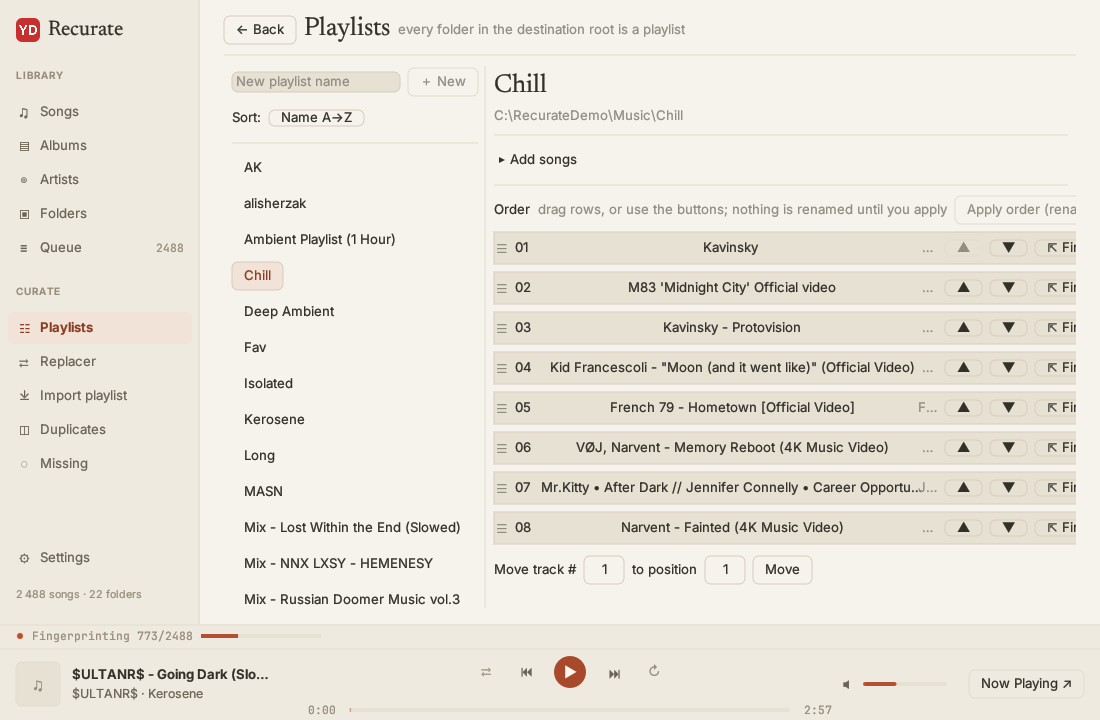
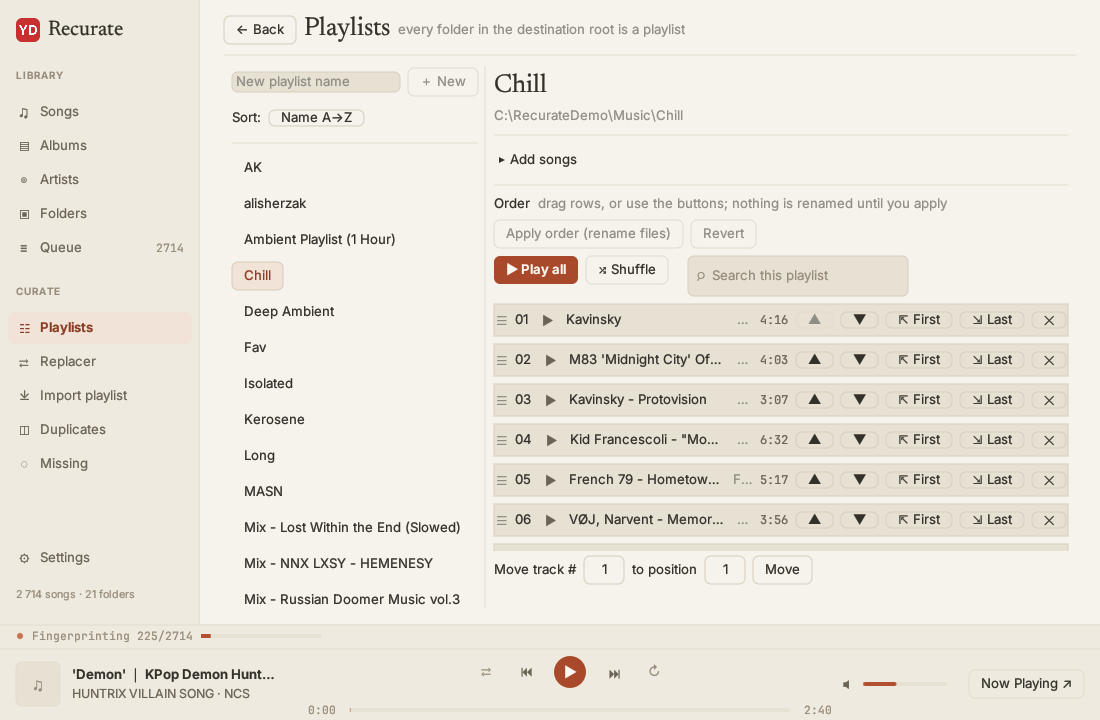
feat(playlists): play controls on playlist rows; fix clipped buttons
Add Play all and Shuffle above the order list, a play button on every
row (plays the playlist from that song, or pauses / resumes the song
already loaded), double-click on a title to play, a tint and accent
title on the playing song, and the duration next to the artist.
Playback follows the order shown, including unapplied reorder edits.

Fix the row buttons being cut off: the "Order ... Apply order ...
Revert" row was wider than the panel, egui widened the panel to fit it,
and every row below was laid out past the visible edge, hiding the
delete and Last buttons. Header rows now wrap. Titles are left-aligned.

Regenerate the Playlists screenshot with the capture tool.

Verified: 80 tests pass, no new clippy warnings, Playlists screen
captured in the real window with every row control visible.

diff --git a/player/src/ui/screens/playlists.rs b/player/src/ui/screens/playlists.rs
@@ -543,7 +543,10 @@ fn draw_reorder(ui: &mut egui::Ui, app: &mut App, folder: &PathBuf) {
     let batch_here =
         !app.playlists.queued_ids.is_empty() && app.playlists.batch_folder.as_ref() == Some(folder);
 
-    ui.horizontal(|ui| {
+    // Wrapped, not `horizontal`: a row wider than the panel makes egui widen
+    // the whole panel, which pushed every song row's buttons (✕, Last,
+    // First) past the visible edge.
+    ui.horizontal_wrapped(|ui| {
         ui.label(egui::RichText::new("Order").strong());
         ui.label(
             egui::RichText::new("drag rows, or use the buttons; nothing is renamed until you apply")
@@ -565,11 +568,31 @@ fn draw_reorder(ui: &mut egui::Ui, app: &mut App, folder: &PathBuf) {
         }
     });
 
+    let mut play_from: Option<usize> = None;
+    let mut play_shuffled = false;
+    let mut toggle_pause = false;
+    let state = app.playback.state_snapshot();
+    let current_id = state.current_song.as_ref().map(|s| s.id);
+    let is_playing = state.is_playing;
+
     // Search within this playlist. While a filter is active the rows keep
     // their real position numbers but drag-and-drop is ignored: dropping
     // between two visible rows says nothing about the hidden ones.
-    ui.horizontal(|ui| {
-        crate::ui::widgets::search_input(ui, &mut app.playlists.filter, "Search this playlist", 260.0);
+    ui.horizontal_wrapped(|ui| {
+        if crate::ui::widgets::primary_button_sm(ui, true, "▶ Play all")
+            .on_hover_text("Play this playlist from the first song, in the order shown")
+            .clicked()
+        {
+            play_from = Some(0);
+        }
+        if crate::ui::widgets::secondary_button_sm(ui, true, "⤮ Shuffle")
+            .on_hover_text("Play this playlist in a random order")
+            .clicked()
+        {
+            play_shuffled = true;
+        }
+        ui.add_space(crate::ui::theme::SPACE_3);
+        crate::ui::widgets::search_input(ui, &mut app.playlists.filter, "Search this playlist", 220.0);
         if !app.playlists.filter.is_empty() {
             let shown = app
                 .playlists
@@ -617,15 +640,17 @@ fn draw_reorder(ui: &mut egui::Ui, app: &mut App, folder: &PathBuf) {
         }
     }
     let highlight = app.playlists.highlight;
-    let accent_soft = crate::ui::widgets::p(ui).accent_soft;
+    let pal = crate::ui::widgets::p(ui);
+    let accent_soft = pal.accent_soft;
     scroll.show_rows(ui, row_h, visible.len(), |ui, range| {
             for k in range {
                 let i = visible[k];
                 let song = &rows[i];
                 let (song_id, title, artist) = (&song.id, &song.title, &song.artist);
                 let id = egui::Id::new(("pl_row", folder, *song_id));
+                let is_current = current_id == Some(*song_id);
                 let mut frame = egui::Frame::none().inner_margin(2.0);
-                if highlight == Some(*song_id) {
+                if highlight == Some(*song_id) || is_current {
                     frame = frame.fill(accent_soft).rounding(crate::ui::theme::RADIUS_SM);
                 }
                 let (_, dropped) = ui.dnd_drop_zone::<usize, ()>(frame, |ui| {
@@ -634,11 +659,50 @@ fn draw_reorder(ui: &mut egui::Ui, app: &mut App, folder: &PathBuf) {
                             ui.label(egui::RichText::new("☰").weak());
                             ui.label(format!("{:02}", i + 1));
                         });
-                        let title_w = (ui.available_width() - 290.0).max(40.0);
-                        let r = ui.add_sized(
-                            [title_w, row_h],
-                            egui::Label::new(title).truncate().sense(egui::Sense::click()),
-                        );
+                        // ▶ plays the playlist from this song; on the song
+                        // that is already loaded it toggles play / pause.
+                        let (glyph, hover) = if is_current && is_playing {
+                            ("⏸", "Pause")
+                        } else if is_current {
+                            ("▶", "Resume")
+                        } else {
+                            ("▶", "Play from here")
+                        };
+                        let glyph_c = if is_current { pal.accent } else { pal.ink_2 };
+                        if crate::ui::widgets::icon_button(ui, glyph, 22.0, glyph_c)
+                            .on_hover_text(hover)
+                            .clicked()
+                        {
+                            if is_current {
+                                toggle_pause = true;
+                            } else {
+                                play_from = Some(i);
+                            }
+                        }
+                        let title_w = (ui.available_width() - 340.0).max(40.0);
+                        let title_text = if is_current {
+                            egui::RichText::new(title).color(pal.accent_soft_ink).strong()
+                        } else {
+                            egui::RichText::new(title)
+                        };
+                        let r = ui
+                            .allocate_ui_with_layout(
+                                egui::vec2(title_w, row_h),
+                                egui::Layout::left_to_right(egui::Align::Center),
+                                |ui| {
+                                    ui.set_min_width(title_w);
+                                    ui.add(
+                                        egui::Label::new(title_text)
+                                            .truncate()
+                                            .sense(egui::Sense::click()),
+                                    )
+                                },
+                            )
+                            .inner
+                            .on_hover_text("Double-click to play, right-click for more");
+                        if r.double_clicked() {
+                            play_from = Some(i);
+                        }
                         if let Some(a) = song_menu::show(&r, song, can_delete) {
                             menu = Some((a, i));
                         }
@@ -668,6 +732,11 @@ fn draw_reorder(ui: &mut egui::Ui, app: &mut App, folder: &PathBuf) {
                             if ui.add_enabled(i > 0, egui::Button::new("▲").small()).clicked() {
                                 mv = Some((i, i - 1));
                             }
+                            ui.label(
+                                egui::RichText::new(song.formatted_duration())
+                                    .font(crate::ui::theme::mono(crate::ui::theme::TEXT_CAPTION))
+                                    .color(pal.ink_2),
+                            );
                             let artist_w = ui.available_width().max(20.0);
                             ui.add_sized(
                                 [artist_w, row_h],
@@ -686,6 +755,15 @@ fn draw_reorder(ui: &mut egui::Ui, app: &mut App, folder: &PathBuf) {
 
     if let Some((a, i)) = menu {
         song_menu::perform(app, a, &rows[i], &rows);
+    }
+    if toggle_pause {
+        app.playback.play_pause();
+    }
+    if let Some(i) = play_from {
+        app.playback.play_songs(rows.clone(), i, None);
+    }
+    if play_shuffled {
+        app.playback.play_songs(shuffled(rows.clone()), 0, None);
     }
 
     ui.horizontal(|ui| {
@@ -715,6 +793,24 @@ fn draw_reorder(ui: &mut egui::Ui, app: &mut App, folder: &PathBuf) {
         // handle_delete renumbers + refreshes; ids changed, so reload from disk.
         app.playlists.order_folder = None;
     }
+}
+
+/// Fisher-Yates with a time-seeded xorshift: good enough for picking a play
+/// order, and avoids a `rand` dependency for one call site.
+fn shuffled(mut songs: Vec<Song>) -> Vec<Song> {
+    let mut x = std::time::SystemTime::now()
+        .duration_since(std::time::UNIX_EPOCH)
+        .map(|d| d.as_nanos() as u64)
+        .unwrap_or(0x9E37_79B9_7F4A_7C15)
+        | 1;
+    for i in (1..songs.len()).rev() {
+        x ^= x << 13;
+        x ^= x >> 7;
+        x ^= x << 17;
+        let j = (x % (i as u64 + 1)) as usize;
+        songs.swap(i, j);
+    }
+    songs
 }
 
 fn is_dirty(app: &mut App, folder: &PathBuf) -> bool {
@@ -770,6 +866,14 @@ fn apply_order(app: &mut App, folder: &PathBuf) {
 #[cfg(test)]
 mod tests {
     use super::*;
+
+    #[test]
+    fn shuffled_keeps_every_song_once() {
+        let songs: Vec<Song> = (0..50).map(|i| song(i, &format!("{i:02} - s.mp3"))).collect();
+        let mut ids: Vec<i64> = shuffled(songs).iter().map(|s| s.id).collect();
+        ids.sort();
+        assert_eq!(ids, (0..50).collect::<Vec<i64>>());
+    }
     use std::time::Duration;
 
     fn song(id: i64, name: &str) -> Song {

diff --git a/README.md b/README.md
@@ -345,6 +345,13 @@ selected one on the right:
 - **Delete** — ✕ on a row deletes the file and renumbers the folder. Apply or
   revert pending order edits first.
 
+**Playing a playlist:** **▶ Play all** plays the folder in the order shown
+(including unapplied reorder edits), **⤮ Shuffle** plays it in a random
+order. Each row has its own **▶** to play the playlist from that song
+(on the song already loaded it pauses / resumes), double-clicking a title
+does the same, and the playing song is tinted. Durations sit next to the
+artist.
+
 **Search this playlist:** the field above the order list filters the rows
 (same word-wise matching as the Songs page); rows keep their real position
 numbers and the move buttons still work, but drag-and-drop is ignored
